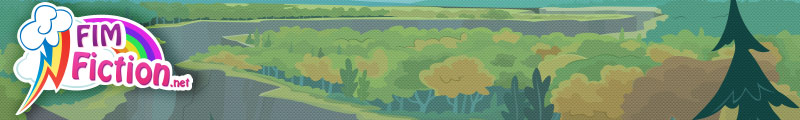
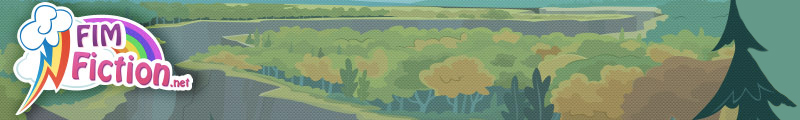
Updated header for screens larger than mobile

diff --git a/cl/css/default.css b/cl/css/default.css
@@ -36,7 +36,7 @@ h1.header {
 	width: 100%;
 	height: 120px;
 	font-size: 0;
-	background: url('../img/header.jpg');
+	background: url('../img/header.jpg') no-repeat left #639888;
 	border-bottom: 2px solid #3e3424;
 }
 
